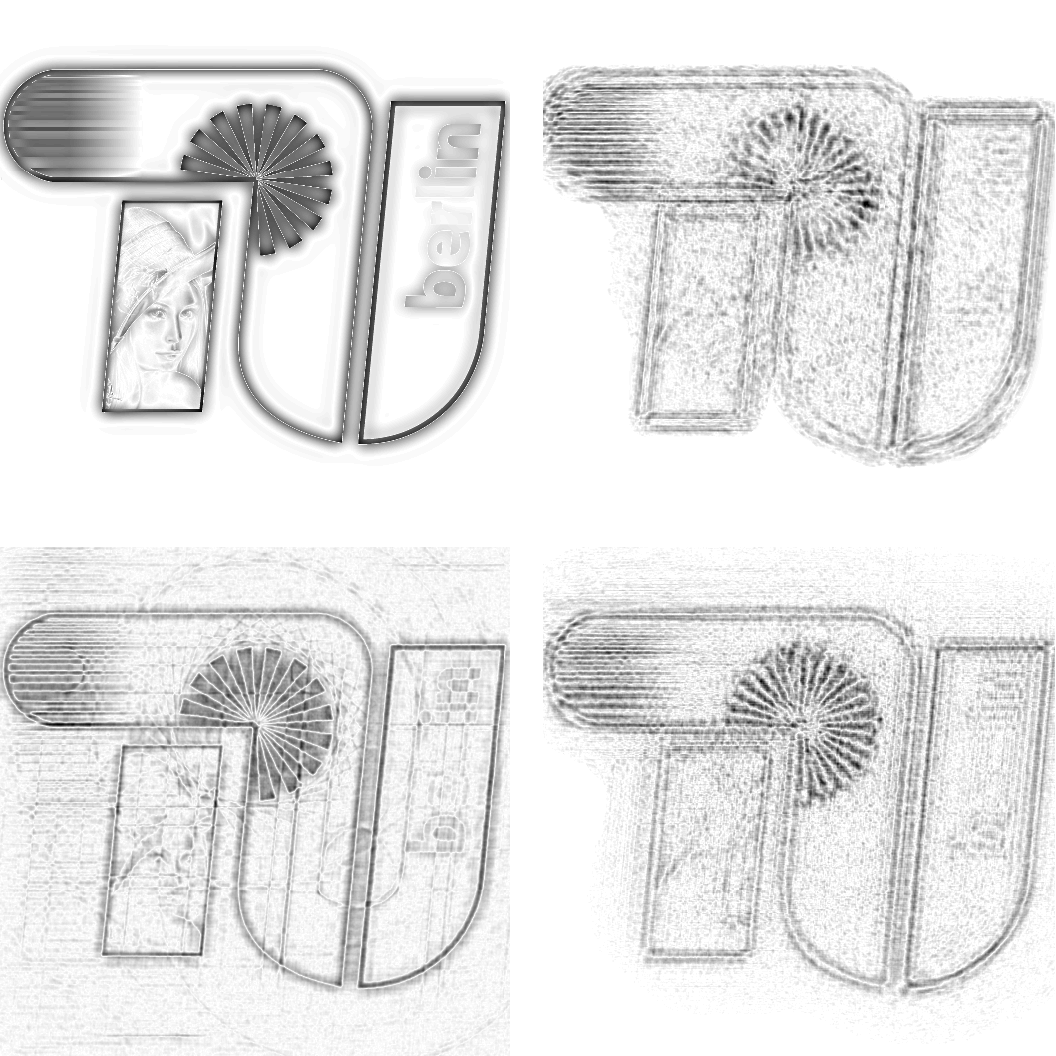
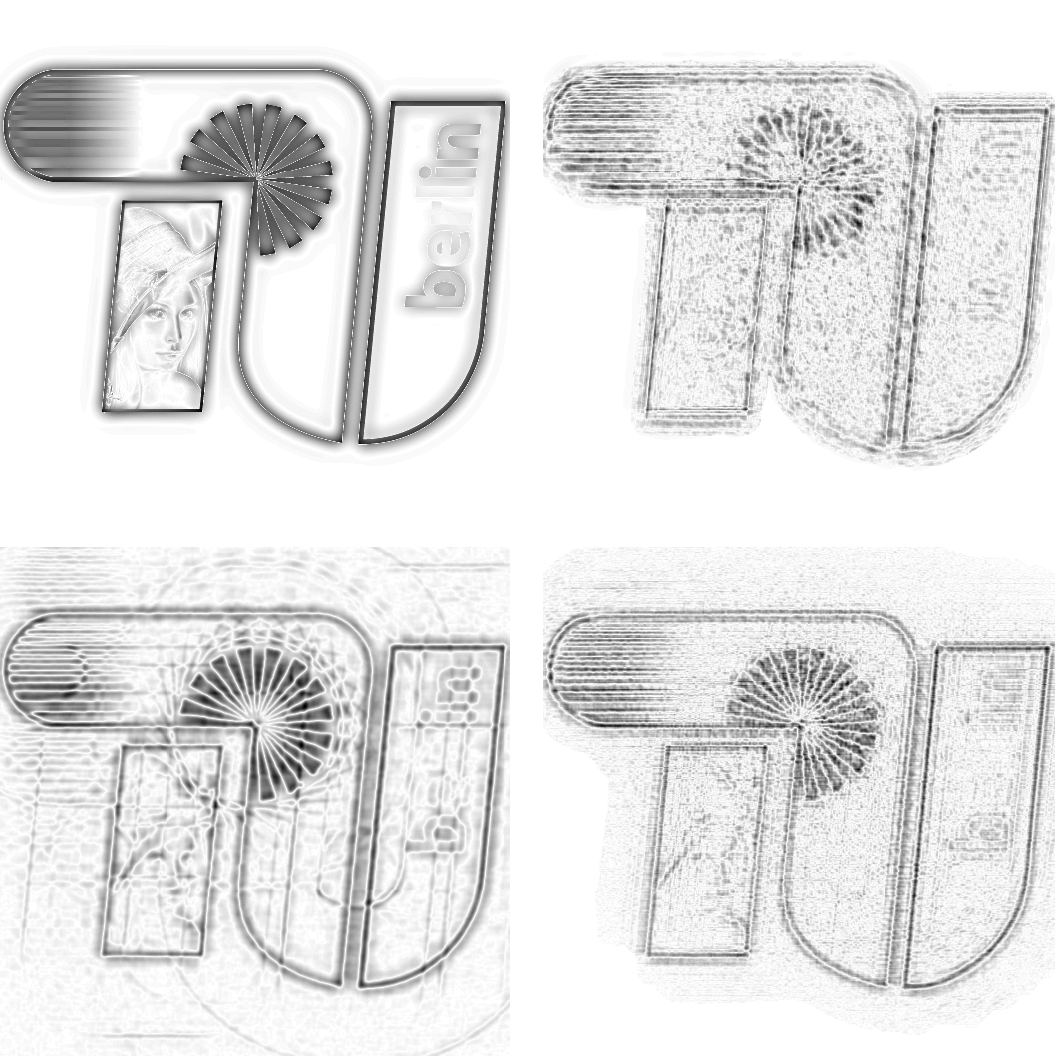
Tex: use current recon results

Changed region(s): [[0.0, 0.5312, 1.0, 0.9688], [0.5, 0.0625, 1.0, 0.4375]]

diff --git a/Tex/rekonstruktion.tex b/Tex/rekonstruktion.tex
@@ -154,7 +154,7 @@ Bei idealen Bedingungen, d.h. ohne Rauschen, ohne zentrale Maskierung und mit pr
 
 \begin{figure}
 	\centering
-	\reconimage{[width=.48\textwidth]{images/recon2d-perfect.png}}
+	\reconimage{[width=.48\textwidth]{images/recon2d-mask0bit0error0.png}}
 	\caption[2D Rekonstruktion: Ideal]{Rekonstruktion mit Zentralstrahl ohne Rauschen: Oben links das theoretische Optimum, in diesem Falle das Eingangsbild, bei späteren Bildern mit maskierter Mitte das hochpassgefilterte Eingangsbild. Oben rechts die durch IPR mit Shrink-Wrap, unten links die durch Entfaltung (mit dem Parameter $N=1$) aus der FTH gewonnene Rekonstruktion. Unten rechts die Rekonstruktion mittels IPR mit FTH als Start und Support. Alle Rekonstruktionen liefern optisch perfekte Ergebnisse. }
 	\label{fig:recon2d-perfect}
 \end{figure}
@@ -170,12 +170,12 @@ Bei der Aufnahme von Streubildern in Experimenten wird aufgrund der großen Inte
 Sowohl die Wiener-Entfaltung als auch die IPR mit Support aus der Holographie erzeugen optisch ideale Rekonstruktionen, die Erzeugung des Supports mittels Shrink-Wrap ist stärker beeinflusst, liefert aber ebenfalls gute Ergebnisse in Abwesenheit von Rauschen.
 \begin{figure}
 	\begin{subfigure}[b]{0.48\textwidth}
-		\reconimage{[width=\textwidth]{images/recon2d-mask16.png}}
+		\reconimage{[width=\textwidth]{images/recon2d-mask16bit0error0.png}}
 		\caption{kleine Maske}
 	\end{subfigure}
 	\hspace*{\fill}
 	\begin{subfigure}[b]{0.48\textwidth}
-		\reconimage{[width=\textwidth]{images/recon2d-mask64.png}}
+		\reconimage{[width=\textwidth]{images/recon2d-mask64bit0error0.png}}
 		\caption{große Maske}	
 	\end{subfigure}
 	\caption[2D Rekonstruktion: Beamstop]{Einfluss einer zentralen Maskierung des Streubildes mit Radius 16 Pixel bzw. 64 Pixel von 2048 Pixeln auf die Rekonstruktionen (gleiche Anordnung wie in \fref{fig:recon2d-perfect}). Die Entfaltung ($N=1$) erweist sich als am unempfindlichsten, die IPR als am empfindlichsten.}
@@ -186,12 +186,12 @@ Sowohl die Wiener-Entfaltung als auch die IPR mit Support aus der Holographie er
 Zur Beurteilung des Einflusses von Rauschen auf die Rekonstruktionen werden die Fourieramplituden mit verschiedenen Auflösungen diskretisiert und ein Poisson-Rauschen angewendet (\fref{fig:recon2d-noise}). Dadurch wird das natürliche Schrotrauschen bei idealer Belichtung simuliert. Hier zeigt sich eine Unempfindlichkeit der Wiener-Entfaltung gegenüber Rauschen -- durch den Rauschterm in der Entfaltung kann der störende Einfluss minimiert und gleichzeitig eine ausreichende Entfaltung bewirkt werden. Insbesondere die IPR mit Shrink-Wrap Support leidet unter Rauschen, da kein geeigneter Support gefunden werden kann. Durch die Erzeugung des Supports mittels Holographie kann dieses Problem umgangen werden.
 \begin{figure}
 	\begin{subfigure}[b]{0.45\textwidth}
-		\reconimage{[width=\textwidth]{images/recon2d-mask16bit16.png}}
+		\reconimage{[width=\textwidth]{images/recon2d-mask16bit16error0.png}}
 		\caption{wenig Rauschen}
 	\end{subfigure}
 	\hspace*{\fill}
 	\begin{subfigure}[b]{0.45\textwidth}
-		\reconimage{[width=\textwidth]{images/recon2d-mask16bit14.png}}
+		\reconimage{[width=\textwidth]{images/recon2d-mask16bit14error0.png}}
 		\caption{viel Rauschen}	
 	\end{subfigure}
 	\caption[2D Rekonstruktion: Rauschen]{Einfluss des Rauschen: Das gering maskierte Streubild wurde mit 16\,Bit bzw. 14\,Bit diskretisiert und Poisson-Rauschen hinzugefügt. Die Entfaltung ($N=\num{1e3} \text{ bzw. }\num{3e3}$) erweist sich deutlich als am unempfindlichsten, die IPR als am empfindlichsten.}
